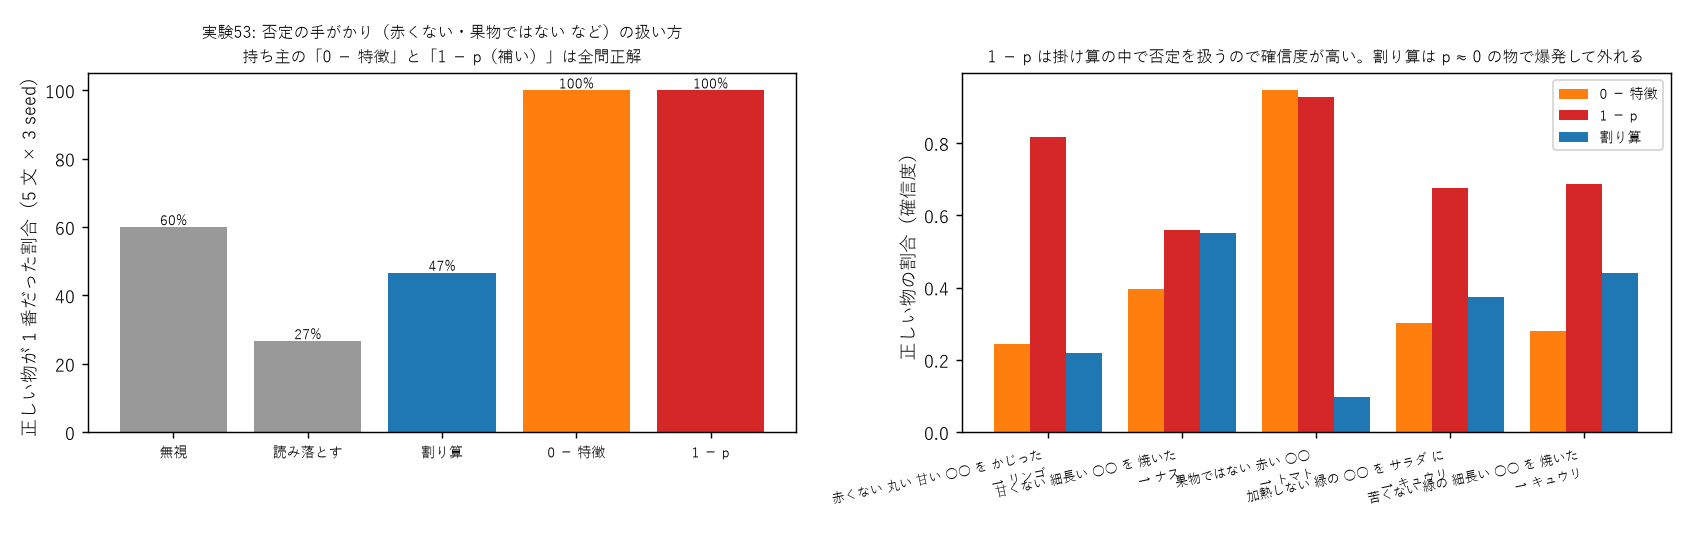
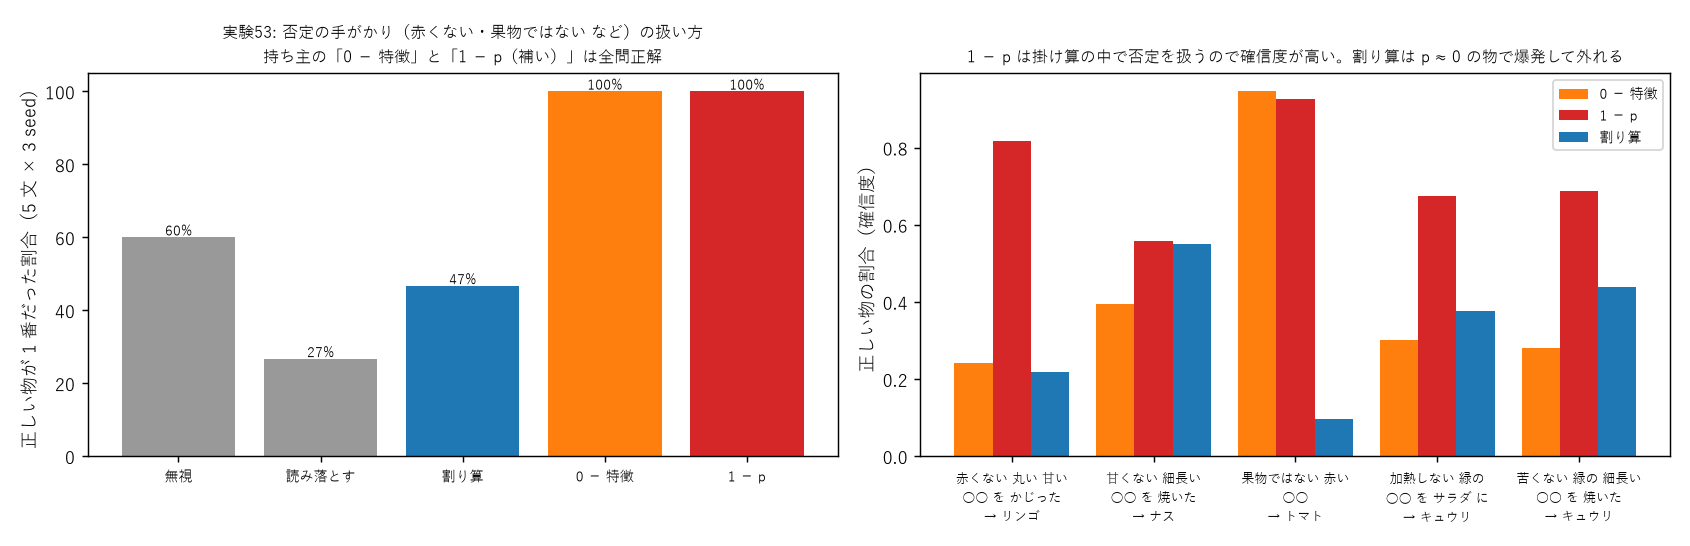
実験53 の図の文字の重なりを直す

diff --git a/tools/fig_exp35_49.py b/tools/fig_exp35_49.py
@@ -237,7 +237,7 @@ texts = [x["text"] for x in d[0]["rows"]]
 for k, (kk, c) in enumerate(zip(["0 − 特徴", "1 − p", "割り算"], ["C1", "C3", "C0"])):
     v = [np.mean([r["rows"][i][kk]["p_answer"] for r in d]) for i in range(len(texts))]
     axs[1].bar(np.arange(len(texts)) + (k - 1) * 0.27, v, 0.27, color=c, label=kk)
-axs[1].set_xticks(range(len(texts))); axs[1].set_xticklabels([f"{t}\n→ {x['answer']}" for t, x in zip(texts, d[0]["rows"])], fontsize=7, rotation=12, ha="right")
+axs[1].set_xticks(range(len(texts))); axs[1].set_xticklabels([t.replace(" ○○", "\n○○") + f"\n→ {x['answer']}" for t, x in zip(texts, d[0]["rows"])], fontsize=7)
 axs[1].set_ylabel("正しい物の割合（確信度）"); axs[1].legend(fontsize=8)
 axs[1].set_title("1 − p は掛け算の中で否定を扱うので確信度が高い。割り算は p ≈ 0 の物で爆発して外れる", fontsize=9)
 save(fig, "exp53_negation")
